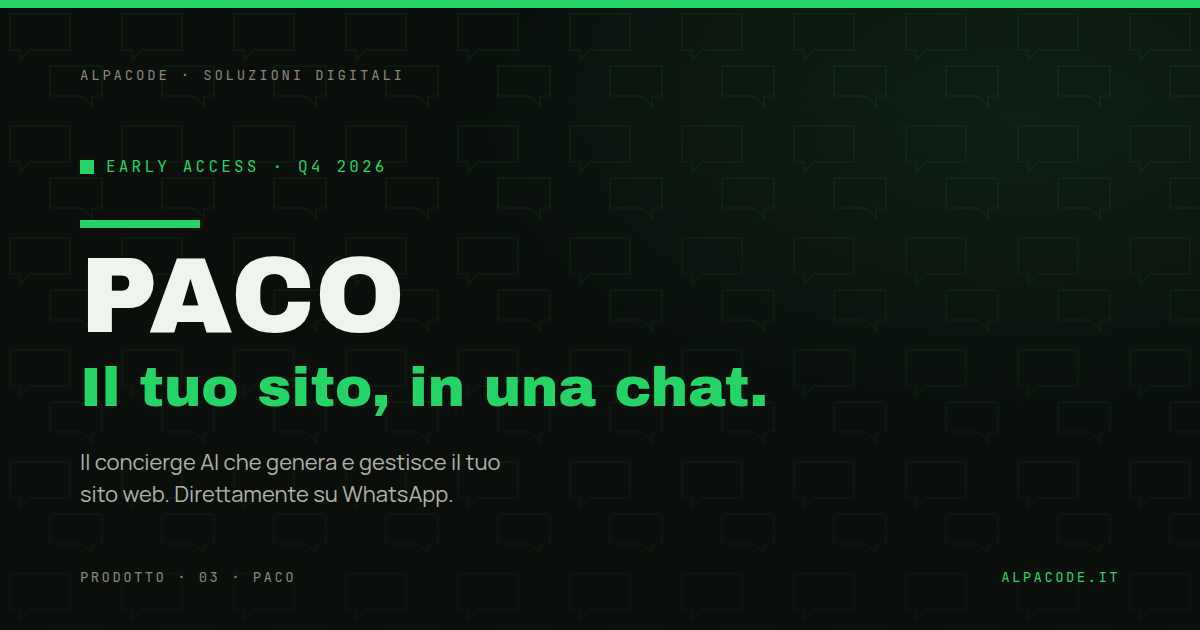
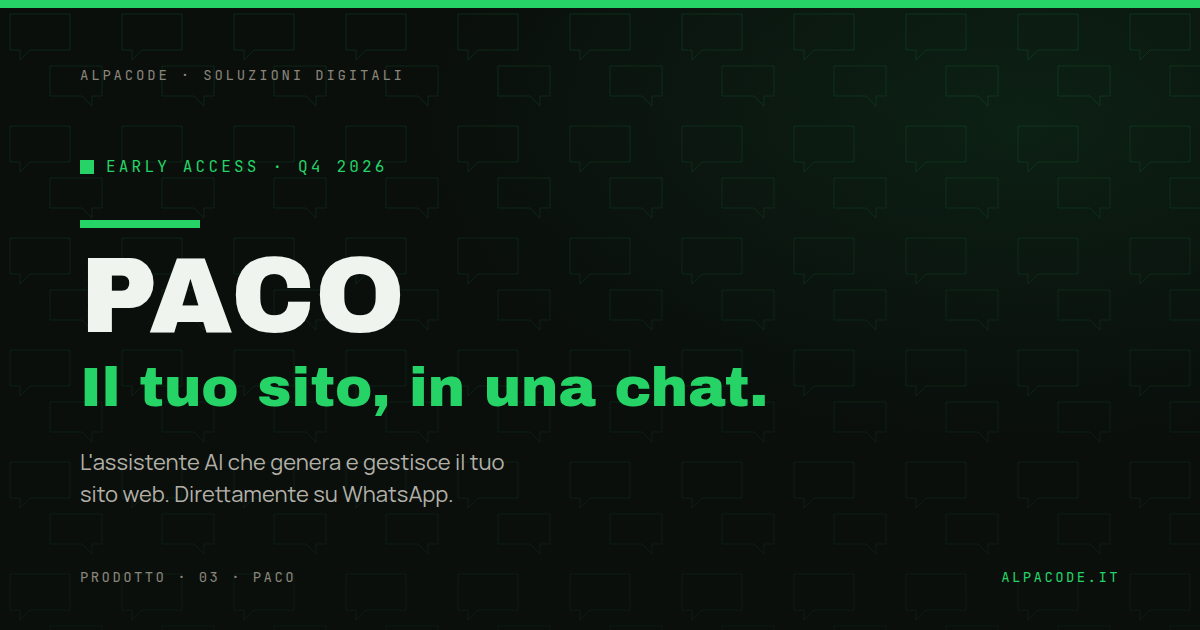
Copy: "concierge" is not a thing in Italian — say "assistente AI"
Italian copy for Paco (card, teaser page, mega menu, OG card) now reads
"assistente AI"; English keeps "AI concierge", which is natural there.

Claude-Session: https://claude.ai/code/session_01KRRLTBNHTADbbmzPhkTDTw

Changed region(s): [[0.0617, 0.7238, 0.4317, 0.754]]

diff --git a/src/data/product-pages.ts b/src/data/product-pages.ts
@@ -435,7 +435,7 @@ export const paco: Record<Lang, ProductPage> = {
   it: {
     title: "Paco · Il tuo sito web, gestito in chat · Alpacode",
     description:
-      "Paco è il concierge AI che genera e gestisce il tuo sito web da WhatsApp: tu scrivi in chat, lui aggiorna il sito e risponde ai tuoi clienti. Early access da Q4 2026.",
+      "Paco è l'assistente AI che genera e gestisce il tuo sito web da WhatsApp: tu scrivi in chat, lui aggiorna il sito e risponde ai tuoi clienti. Early access da Q4 2026.",
     ogImage: "/og-paco.png",
 
     crumb: "PRODOTTI · 03 PACO",
@@ -443,7 +443,7 @@ export const paco: Record<Lang, ProductPage> = {
     h1Line1: "Il tuo sito web,",
     h1Line2: "in una chat.",
     lede:
-      "Paco è il concierge AI che fa da tramite tra te e il tuo sito. Il sito lo genera lui, gli aggiornamenti glieli scrivi su WhatsApp, e ai clienti risponde lui. Niente pannelli, niente password: una chat.",
+      "Paco è l'assistente AI che fa da tramite tra te e il tuo sito. Il sito lo genera lui, gli aggiornamenti glieli scrivi su WhatsApp, e ai clienti risponde lui. Niente pannelli, niente password: una chat.",
     ctaPrimary: "Prenota una call",
     ctaSecondary: "Richiedi l'early access",
     heroMeta: [

diff --git a/src/data/products.ts b/src/data/products.ts
@@ -75,9 +75,9 @@ export const prodotti: Record<Lang, ProdottiPageData> = {
           },
           {
             n: "03",
-            tag: "CONCIERGE AI",
+            tag: "ASSISTENTE AI",
             t: "Paco",
-            d: "Il concierge AI che fa da tramite tra te e il tuo sito web. Il sito lo genera lui, tu lo gestisci scrivendogli su WhatsApp: aggiornamenti, offerte e risposte ai clienti, tutto in chat.",
+            d: "L'assistente AI che fa da tramite tra te e il tuo sito web. Il sito lo genera lui, tu lo gestisci scrivendogli su WhatsApp: aggiornamenti, offerte e risposte ai clienti, tutto in chat.",
             forWho: "Per chi vuole un sito senza pensieri",
             items: ["Sito web generato dall'AI", "Gestione in chat, su WhatsApp", "Risponde ai tuoi clienti", "Zero pannelli di controllo", "Sempre aggiornato"],
             meta: [

diff --git a/src/data/mega.ts b/src/data/mega.ts
@@ -100,7 +100,7 @@ export const megaProdotti: MegaMenu = {
         n: "03",
         t: { it: "Paco", en: "Paco" },
         d: {
-          it: "Il concierge AI che gestisce il tuo sito da WhatsApp",
+          it: "L'assistente AI che gestisce il tuo sito da WhatsApp",
           en: "The AI concierge that runs your website from WhatsApp",
         },
       },
